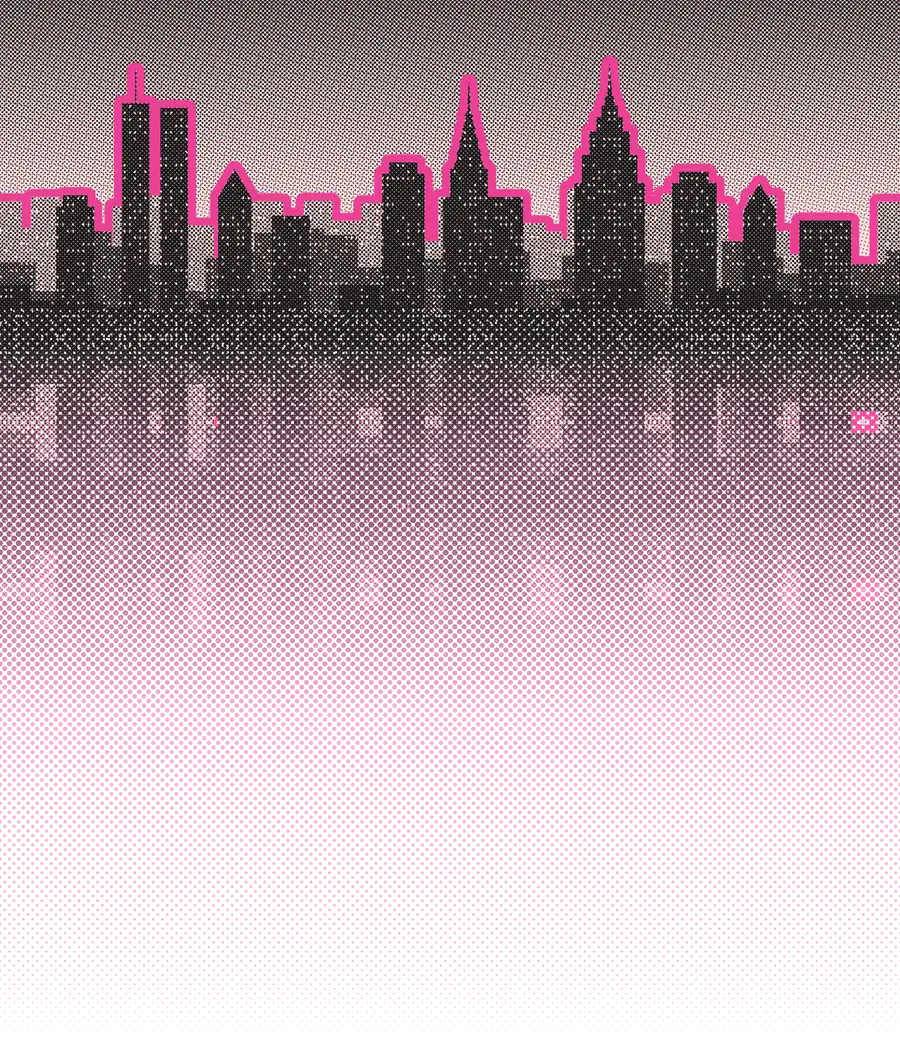
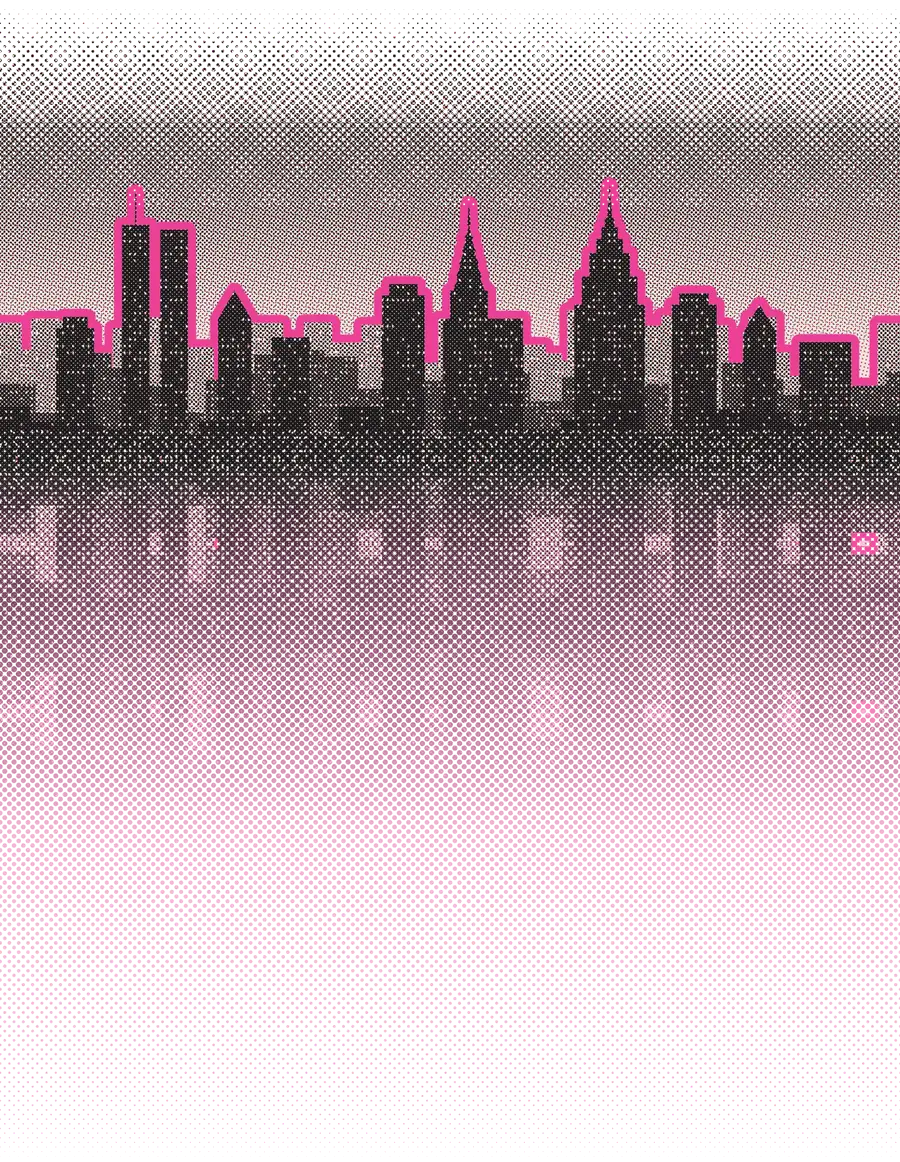
Timeline header T3: skyline from the top of the page, headline strips sinking into the skyline, one tagline (Lisa)
Claude-Session: https://claude.ai/code/session_011MVAnQFHQ9Wv2cvGWey2uC

diff --git a/src/routes/timeline.tsx b/src/routes/timeline.tsx
@@ -53,27 +53,24 @@ function TimelinePage() {
   );
 
   return (
-    <main className="min-h-screen bg-background text-foreground">
-      <section className="relative px-6 pb-6 pt-14">
-        <div className="relative z-10 mx-auto max-w-4xl text-center">
-          <h1 className="mt-6 text-balance text-5xl font-bold leading-[1] tracking-tight text-cream text-glow sm:text-6xl">
-            {spanWord()} years of{" "}
-            <span className="text-pink text-glow-pink">one long night</span>
+    <main
+      className="timeline-sky min-h-screen bg-background text-foreground"
+      style={{ "--sky": `url(${skyline})`, "--sky-phone": `url(${skylinePhone})` } as CSSProperties}
+    >
+      {/* New York skyline header (Lisa, 29 Oct 2026, "S1" then "T3"): the photocopied night sky starts at the top of the page and
+          fades in pixels upwards and downwards; the headline sits on black and pink flyer strips sinking into the skyline, one
+          tagline on a paper strip. Made by scripts/timeline-skyline (no outside pictures). */}
+      <section className="timeline-head relative px-4">
+        <div className="timeline-head-in">
+          <h1 className="timeline-title">
+            <span className="timeline-strip timeline-strip-ink">{spanWord()} years of</span>
+            <br />
+            <span className="timeline-strip timeline-strip-pink">one long night</span>
           </h1>
-          <p className="mx-auto mt-6 max-w-2xl text-lg leading-relaxed text-foreground/85">
-            The doors that opened, the records that broke, the scandals that
-            closed rooms for good - and which of the guests was standing there
-            when it happened! Pick a decade and dive in.
-          </p>
+          <p className="timeline-tag">The places, the drama, the releases. All there.</p>
         </div>
       </section>
 
-      {/* New York skyline header (Lisa, 29 Oct 2026, "S1"): photocopy halftone night sky, pink polaroid sticker edge along the
-          skyline, fading in pixels into pale pink behind the moments. Made by scripts/timeline-skyline (no outside pictures). */}
-      <div
-        className="timeline-sky"
-        style={{ "--sky": `url(${skyline})`, "--sky-phone": `url(${skylinePhone})` } as CSSProperties}
-      >
       <section className="px-6">
         <div className="mx-auto flex max-w-4xl flex-wrap justify-center gap-2">
           {["all", ...decades].map((d) => (
@@ -155,7 +152,6 @@ function TimelinePage() {
           ))}
         </ol>
       </section>
-      </div>
 
       <SiteFooter />
     </main>

diff --git a/src/styles.css b/src/styles.css
@@ -460,13 +460,22 @@ button[aria-pressed].rounded-full:is([aria-pressed="true"], :hover) *,
   .jbx-pol { flex-basis: 88px; }
 }
 
-/* Timeline skyline (Lisa, 29 Oct 2026): starts under the intro; the padding leaves the skyline clear above the decade buttons
-   (34.4% of the width = the sky part of the picture), then the pixel fade runs on behind the moments. */
-.timeline-sky { background: var(--sky-phone) center top / 220% auto no-repeat; padding-top: 75.6%; }
+/* Timeline skyline (Lisa, 29 Oct 2026 - "S1", header "T3"): the picture starts at the top of the page (260px of pixel fade
+   above the sky in the 1920-wide file), the headline strips sink into the skyline, and the decade buttons sit under the
+   buildings: .timeline-head is as tall as the sky part of the picture (900/1920 of its width). */
+.timeline-sky { background: var(--sky-phone) center top / 220% auto no-repeat, var(--background); }
+.timeline-head { position: relative; height: calc(220vw * 860 / 1920); }
+.timeline-head-in { position: absolute; left: 0; right: 0; top: calc(220vw * 120 / 1920); text-align: center; padding: 0 16px; z-index: 1; }
+.timeline-title { margin: 0; font-family: var(--font-flyer); font-size: clamp(30px, 6.4vw, 64px); line-height: 1.12; text-transform: uppercase; }
+.timeline-strip { display: inline-block; padding: 2px 14px; }
+.timeline-strip-ink { background: #111; color: #f4f1ea; transform: rotate(-2deg); }
+.timeline-strip-pink { background: var(--color-pink); color: #fff; transform: rotate(1.5deg); margin-top: 6px; }
+.timeline-tag { display: inline-block; margin: 16px 0 0; background: #f4f1ea; color: #111; border: 2px solid #111; padding: 6px 14px; font-size: clamp(13px, 3.5vw, 16px); transform: rotate(-1deg); }
 @media (min-width: 640px) {
-  .timeline-sky { background-image: var(--sky); background-size: 100% auto; padding-top: 34.4%; }
+  .timeline-sky { background-image: var(--sky); background-size: 100% auto; }
+  .timeline-head { height: calc(100vw * 880 / 1920); }
+  .timeline-head-in { top: calc(100vw * 150 / 1920); }
 }
-
 /* Library newsstand (Lisa, 29 Oct 2026): covers taped up in a grid; a tapped cover opens its moments right under its row. */
 .lib-grid { display: grid; grid-template-columns: repeat(auto-fill, minmax(150px, 1fr)); grid-auto-flow: row dense; gap: 30px 22px; margin-top: 30px; list-style: none; padding: 0; }
 @media (min-width: 640px) { .lib-grid { grid-template-columns: repeat(auto-fill, minmax(190px, 1fr)); } }

diff --git a/AGENTS.md b/AGENTS.md
@@ -110,5 +110,5 @@
 - Episode page buttons (Lisa, 28 Oct 2026): every episode page header has just two buttons - a pink "Turn on the AFTERPARTY JUKEBOX" (Link to /jukebox?afterparty=<id>) and Share. "Watch the episode", "Listen to the episode" and "The AFTERPARTY playlist on YouTube" are gone (WOW and Spotify stay one tap away in the episode player bar). New episode pages copy this block. No new per-episode YouTube playlists are made any more: for a new Afterparty, still find a video for each reference (the deep search) and save them as the Jukebox picks (scripts/episode-videos.py) - the Jukebox is where they play.
 - Shared helpers (clean-up, 28 Oct 2026 - reuse them, don't copy them): toSeconds (src/lib/time.ts), seededRandom (src/lib/random.ts), TEXT_LINK and FORM_FIELD class names (src/lib/styles.ts), INSTAGRAM_URL and CONTACT_EMAIL (src/lib/contact.ts), HAS_LINK / looksLikeBot / tooBusy for the public forms (src/lib/form-guard.ts), SEASONS, episodeCode ("S1 E2") and stageName ("Jenny Talia") in src/data/episodes.ts. Unused shadcn/ui components and their packages were removed - add a component back (and its package) only when a page uses it. `npx -y knip@5` lists unused files, exports and packages; keep it clean (Lovable's own files in src/integrations, server.ts, the drizzle setup and @tanstack/router-plugin stay even though knip flags them).
 - Clubkid Culture (/clubkid-culture, Lisa 29 Oct 2026): the three club playlists (Paradise Garage, Studio 54, Danceteria - CLUB_NIGHTS) and "Every club mentioned on Night Fever" (ClubsShelf in src/components/clubs-shelf.tsx), moved from the Jukebox, plus a link to the Jukebox's club videos (/jukebox?show=clubs). Published "in the background" (Lisa, 29 Oct 2026): live at its address but NOT in the menu, search or sitemap (UNLINKED_PAGES, sitemap: false) - keep it that way until Lisa says otherwise.
-- Timeline skyline (Lisa, 29 Oct 2026, option "S1"): under the Timeline intro sits a photocopied New York night skyline (pink/black halftone, Twin Towers, Empire State, Chrysler) with a pink polaroid-style sticker edge along the roofline; below the decade buttons it fades out in pixels to pale pink behind the moments, which sit on paper cards (border-2, ink offset shadow). Pictures: src/assets/timeline-skyline.webp (1920 wide) and timeline-skyline-phone.webp (900 wide), drawn in code by scripts/timeline-skyline (make.py builds the skyline, fadelong.py the fade - original artwork, no photos). Layout: .timeline-sky in styles.css (padding-top = the sky part of the picture, so the skyline stays clear above the buttons). Other page headers stay picture-free until Lisa picks a design for them.
+- Timeline skyline (Lisa, 29 Oct 2026, option "S1", header "T3"): the Timeline page background is a photocopied New York night skyline (pink/black halftone, Twin Towers, Empire State, Chrysler) with a pink polaroid-style sticker edge along the roofline. It starts right under the menu with a pixel fade upwards, the headline sits on two flyer strips (black "<Sixty> years of", pink "one long night") sinking into the skyline with the spires behind them, one tagline on a paper strip ("The places, the drama, the releases. All there."); below the decade buttons it fades in pixels to pale pink behind the moments, which sit on paper cards (border-2, ink offset shadow). Pictures: src/assets/timeline-skyline.webp (1920 wide) and timeline-skyline-phone.webp (900 wide), drawn in code by scripts/timeline-skyline (make.py builds the skyline, fadelong.py the downward fade; 260px of upward fade added on top) - original artwork, no photos. Layout: .timeline-sky / .timeline-head in styles.css (the header is as tall as the sky part of the picture, so the buttons land under the buildings).
 - Jukebox disco ball (Lisa, 29 Oct 2026): the Jukebox page background is an extreme close-up of a mirror ball (a Gemini picture) whose tiles fill the header as the pattern, in the same pink/black photocopy halftone as the Timeline and the polaroids, fading smoothly (one halftone over the whole tall picture, no seam) into pale pink pixels behind the list. src/assets/jukebox-disco.webp (1920) and jukebox-disco-phone.webp (900), made by scripts/jukebox-disco/fade.py; layout .jukebox-sky in styles.css (a little padding above the cabinet, which sits high on the page - Lisa, 29 Oct 2026, "H2").
